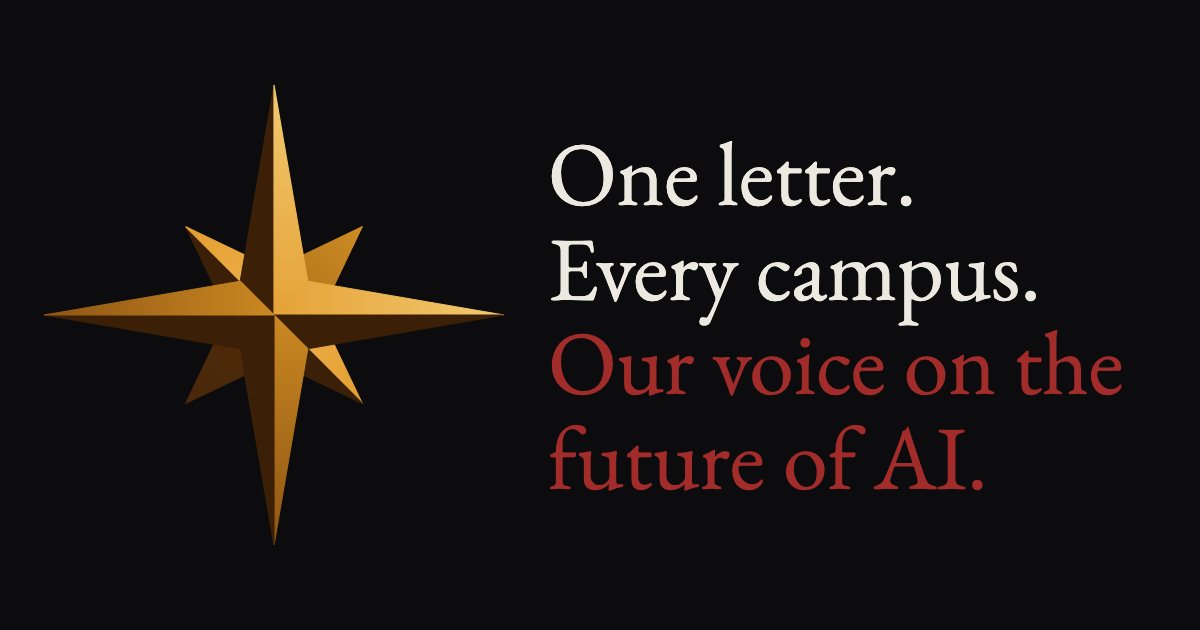
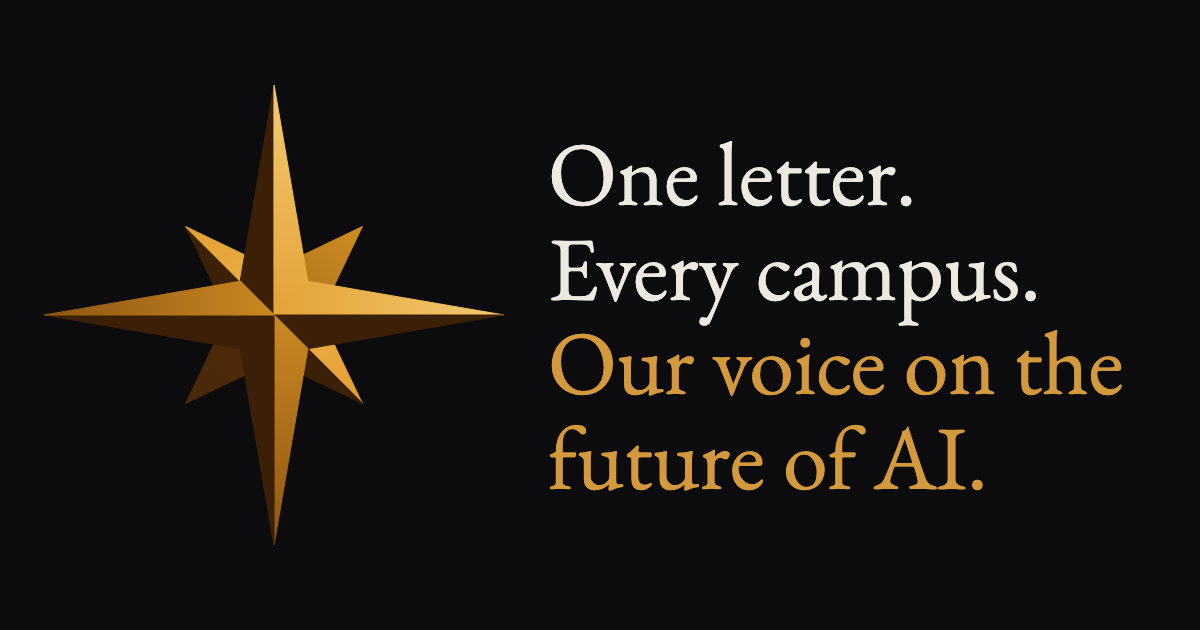
Link preview image: second phrase in the star's gold instead of red

Changed region(s): [[0.4625, 0.5127, 0.9558, 0.6333], [0.4625, 0.6635, 0.8325, 0.7841]]

diff --git a/functions/_middleware.js b/functions/_middleware.js
@@ -26,7 +26,7 @@ const PREVIEW = `<meta property="og:type" content="website">
 <meta property="og:site_name" content="Our Futures First">
 <meta property="og:title" content="Students are writing an open letter on the development of AI. Add your voice.">
 <meta property="og:description" content="Students are writing an open letter on regulating AI development and asking what belongs in it. Open to anyone at a U.S. university.">
-<meta property="og:image" content="https://ourfuturesfirst.org/og.png?v=5">
+<meta property="og:image" content="https://ourfuturesfirst.org/og.png?v=6">
 <meta property="og:image:width" content="1200">
 <meta property="og:image:height" content="630">
 <meta property="og:image:alt" content="A gold compass star beside the words: One letter. Every campus. Our voice on the future of AI.">
@@ -34,7 +34,7 @@ const PREVIEW = `<meta property="og:type" content="website">
 <meta name="twitter:card" content="summary_large_image">
 <meta name="twitter:title" content="Students are writing an open letter on the development of AI. Add your voice.">
 <meta name="twitter:description" content="Students are writing an open letter on regulating AI development and asking what belongs in it.">
-<meta name="twitter:image" content="https://ourfuturesfirst.org/og.png?v=5">
+<meta name="twitter:image" content="https://ourfuturesfirst.org/og.png?v=6">
 <link rel="icon" type="image/svg+xml" href="/assets/favicon.svg?v=gold">`;
 
 function notFound() {

diff --git a/index.html b/index.html
@@ -11,7 +11,7 @@
 <meta property="og:title" content="Students are writing an open letter on the development of AI. Add your voice.">
 <meta property="og:site_name" content="Our Futures First">
 <meta property="og:description" content="Students are writing an open letter on regulating AI development and asking what belongs in it. Open to anyone at a U.S. university.">
-<meta property="og:image" content="https://ourfuturesfirst.org/og.png?v=5">
+<meta property="og:image" content="https://ourfuturesfirst.org/og.png?v=6">
 <meta property="og:image:width" content="1200">
 <meta property="og:image:height" content="630">
 <meta property="og:image:alt" content="A gold compass star beside the words: One letter. Every campus. Our voice on the future of AI.">
@@ -20,7 +20,7 @@
 <meta name="twitter:card" content="summary_large_image">
 <meta name="twitter:title" content="Students are writing an open letter on the development of AI. Add your voice.">
 <meta name="twitter:description" content="Students are writing an open letter on regulating AI development and asking what belongs in it.">
-<meta name="twitter:image" content="https://ourfuturesfirst.org/og.png?v=5">
+<meta name="twitter:image" content="https://ourfuturesfirst.org/og.png?v=6">
 <link rel="icon" type="image/svg+xml" href="assets/favicon.svg?v=gold">
 <link rel="preconnect" href="https://fonts.googleapis.com">
 <link rel="preconnect" href="https://fonts.gstatic.com" crossorigin>

diff --git a/tools/og.html b/tools/og.html
@@ -1,5 +1,5 @@
 <!doctype html>
-<!-- The link preview image (og.png): the star beside the slogan, set exactly like the site's headline.
+<!-- The link preview image (og.png): the star beside the slogan, set like the site's headline, with the second phrase in the star's gold.
      It reads the headline's font, weight, colours and line spacing from index.html, so it always matches the site.
      To make og.png: serve the repo (any static server), open /tools/og.html in a browser at 1200x630 and screenshot it,
      e.g. chrome --headless --window-size=1200,630 --screenshot=og.png http://localhost:4177/tools/og.html
@@ -27,7 +27,9 @@ document.getElementById("site").addEventListener("load", function () {
   var a = getComputedStyle(src), em = src.querySelector("em"), b = em ? getComputedStyle(em) : a, h = document.getElementById("h");
   ["fontFamily", "fontWeight", "fontStretch", "letterSpacing", "color", "textTransform"].forEach(function (k) { h.style[k] = a[k]; });
   document.body.style.background = getComputedStyle(doc.body).backgroundColor;
-  h.querySelector("em").style.color = b.color;
+  /* the second phrase in the site's gold (--star, the colour of the star), not the headline's red */
+  var gold = getComputedStyle(doc.documentElement).getPropertyValue("--star").trim();
+  h.querySelector("em").style.color = gold || b.color;
 });
 </script>
 </body></html>
